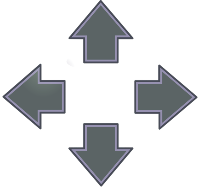
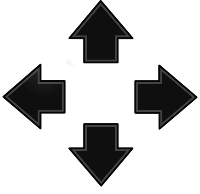
hud 1.1

diff --git a/srcs/struct_hud.c b/srcs/struct_hud.c
@@ -7,13 +7,13 @@ int init_hud(t_env *env)
     i = 0;
     while (i < 3)
         env->player.hud.shortcut[i++] = NULL;
-    if ((env->player.hud.empty_bar = ui_img("hud/empty_bar3"))
+    if ((env->player.hud.empty_bar = ui_img("hud/empty_bar"))
     && (env->player.hud.bar[0] = ui_img("hud/health_bar"))
-    && (env->player.hud.bar[1] = ui_img("hud/shield_bar3"))
+    && (env->player.hud.bar[1] = ui_img("hud/shield_bar"))
     && (env->player.hud.hud_wpn[0] = ui_img("hud/hud_pistol"))
     && (env->player.hud.hud_wpn[1] = ui_img("hud/hud_ak"))
     && (env->player.hud.hud_wpn[2] = ui_img("hud/hud_rifle"))
-    && (env->player.hud.pad = ui_img("hud/pad2")))
+    && (env->player.hud.pad = ui_img("hud/pad")))
         return (1);
     return (0);
 }
